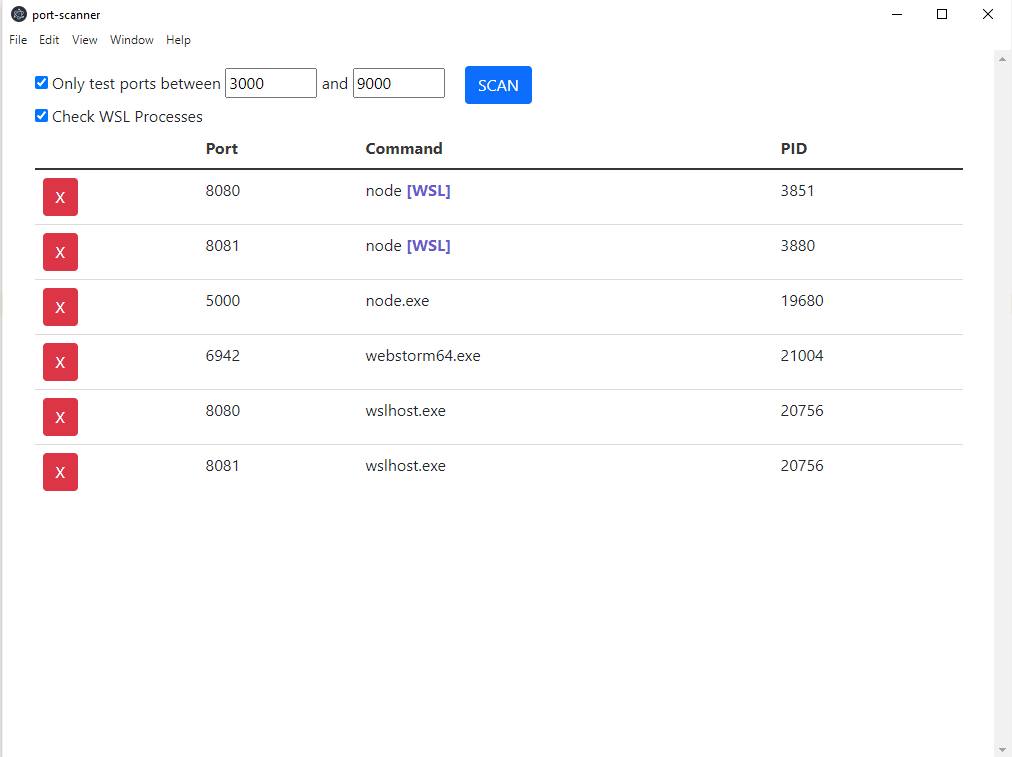
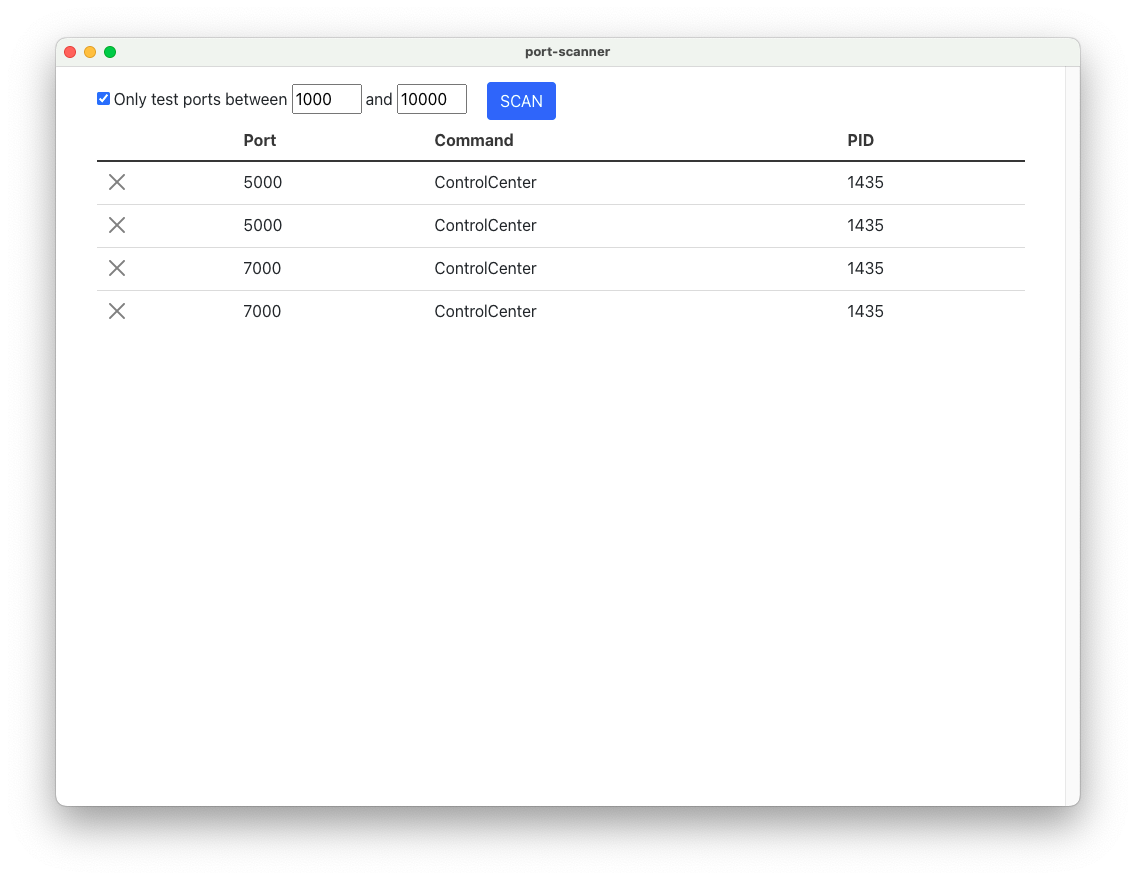
update screenshots on README

diff --git a/README.md b/README.md
@@ -6,11 +6,13 @@ For instance, port 8080 is a port commonly used for development. So if it's in u
 
 Built on top of [Svelte Electron Boilerplate](https://github.com/ptkdev-boilerplate/svelte-electron-boilerplate).
 
-### App Screenshot
+### App Screenshots
 
-![app](https://user-images.githubusercontent.com/3443648/209481627-9f1384a1-c38a-49d8-ae0c-37fd46026964.png)
+![app](docs/images/app-screenshot.png)
 
-![terminate process dialog](https://user-images.githubusercontent.com/3443648/209481635-9e59ca79-12d7-4dfc-895b-31c76b61165c.png)
+![stop process dialog](docs/images/process-stop-prompt.png)
+
+![terminate process dialog](docs/images/process-terminate-prompt.png)
 
 
 ## Running the App
